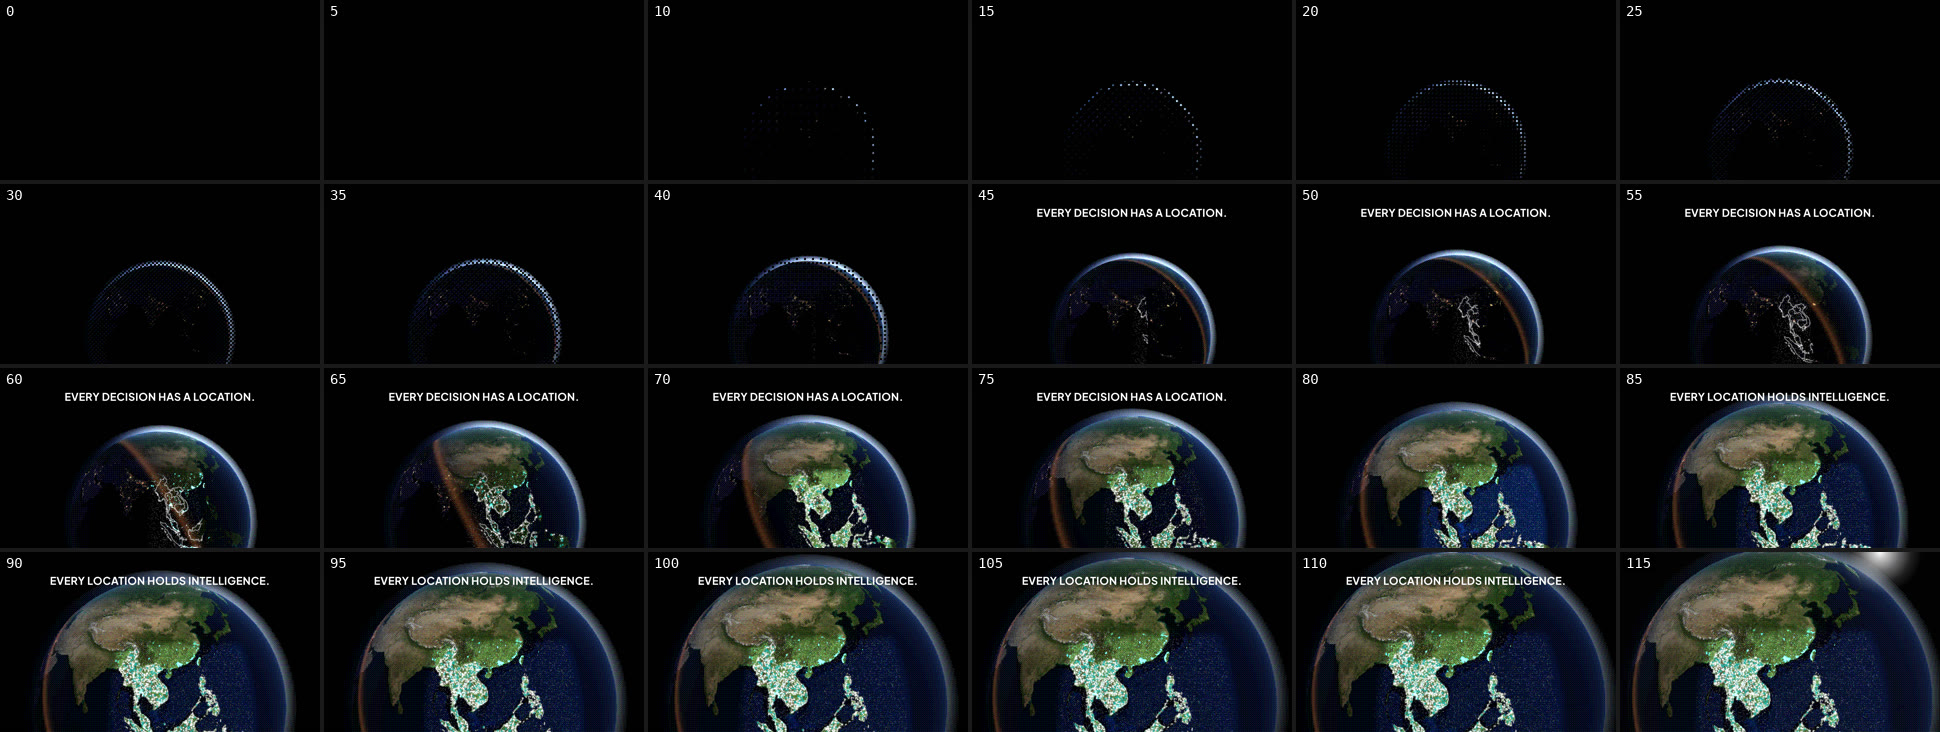
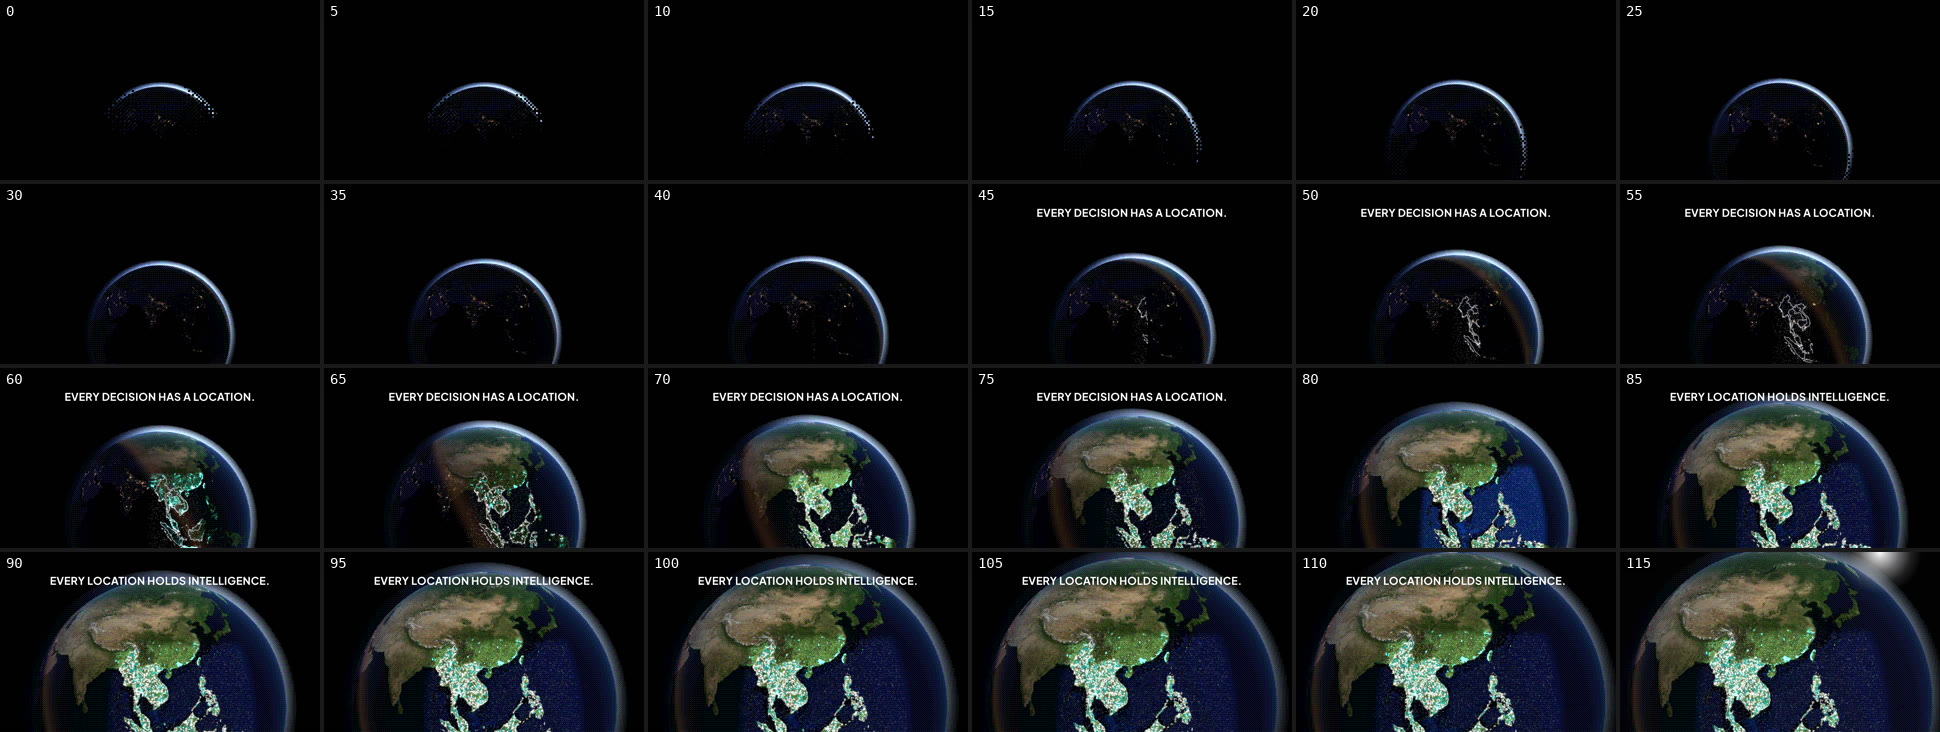
fix(galvis-film): jury round 1 — act 03
The 24.0 impact hits: one white frame then a fast drop, two shockwave rings (teal, blue), a 5 % camera
kick and a burst in brand colours (2–5 px). The name hold takes a slow 3.5 % push; the full name and
tagline are larger (40 / 28 px), boxes refitted. QA sheets for acts 01–03 and 07 refreshed.

Claude-Session: https://claude.ai/code/session_0187RN5xC2Ne3Dptw6LeZ6Ei

diff --git a/projects/galvis-launch-film/compositions/03-reveal.html b/projects/galvis-launch-film/compositions/03-reveal.html
@@ -20,8 +20,8 @@
         .act03-reveal-sub {
           position: absolute; left: 0; right: 0; text-align: center; font-family: var(--font-text); font-weight: 600; color: var(--text-body);
         }
-        #act03-reveal-full { top: 744px; font-size: 32px; }
-        #act03-reveal-tag { top: 806px; font-size: 24px; color: var(--text-body); }
+        #act03-reveal-full { top: 740px; font-size: 40px; }
+        #act03-reveal-tag { top: 812px; font-size: 28px; color: var(--text-body); }
         #act03-reveal-flash, #act03-reveal-inside { position: absolute; inset: 0; }
         #act03-reveal-flash { background: #fff; }
         #act03-reveal-inside { background: var(--navy); }
@@ -113,8 +113,12 @@
 
           // Impact on 24.0: white, then the node bursts into dots, dither cells and contour fragments that
           // fly out and gather into the mark's silhouette (the pixel swarm), which dissolves as the sharp mark lands.
+          // The white holds one frame, then drops fast so the shockwave and the burst read through it; the
+          // frame kicks in (camera shake) and settles.
           gsap.set($('flash'), { opacity: 1 });
-          tl.to($('flash'), { opacity: 0, duration: 0.4, ease: 'power2.out' }, 0);
+          tl.to($('flash'), { opacity: 0, duration: 0.25, ease: 'expo.out' }, 1 / 30);
+          gsap.set($('root'), { scale: 1.05, transformOrigin: '960px 600px' });
+          tl.to($('root'), { scale: 1, duration: 0.35, ease: 'power3.out' }, 0);
           const rnd = GV.seeded(3);
           const BRAND = ['#032750', '#024ABC', '#1FAFA1', '#86C36A'];
           const points = Array.from({ length: 720 }, (_, n) => {
@@ -126,14 +130,26 @@
               ox: 960 + Math.cos(a) * r, oy: 600 + Math.sin(a) * r * 0.62,
               x1: 840 + tx, y1: 160 + ty,
               c: `rgb(${px[i]},${px[i + 1]},${px[i + 2]})`, c2: BRAND[Math.floor(rnd() * 4)],
-              rot: rnd() * Math.PI, len: 7 + rnd() * 9, delay: rnd() * 0.25,
+              rot: rnd() * Math.PI, len: 7 + rnd() * 9, delay: rnd() * 0.25, size: 2 + rnd() * 3,
             };
           });
           const pctx = $('particles').getContext('2d');
           const OUT = 0.55, GATHER = A(14), FADE_FROM = A(14, 1), FADE_TO = A(14, 2) + 0.2;
           const expoOut = (k) => (k >= 1 ? 1 : 1 - Math.pow(2, -10 * k));
+          // Two shockwave rings from the node: teal, then blue 0.08 s later (radius 0 → 1400 px, expo out).
+          const RINGS = [[0, '31,175,161'], [0.08, '2,74,188']];
+          const drawRings = (t) => RINGS.forEach(([at, rgb]) => {
+            const k = (t - at) / 0.5;
+            if (k < 0 || k >= 1) return;
+            pctx.strokeStyle = `rgba(${rgb},${(1 - k).toFixed(3)})`;
+            pctx.lineWidth = 10 * (1 - k);
+            pctx.beginPath();
+            pctx.ellipse(960, 600, 1400 * expoOut(k), 1400 * expoOut(k) * 0.62, 0, 0, Math.PI * 2);
+            pctx.stroke();
+          });
           const drawParticles = (t) => {
             pctx.clearRect(0, 0, 1920, 1080);
+            drawRings(t);
             if (t >= FADE_TO) return;
             pctx.globalAlpha = 1 - Math.min(1, Math.max(0, (t - FADE_FROM) / (FADE_TO - FADE_FROM)));
             for (const p of points) {
@@ -144,7 +160,7 @@
                 const e = k * k * (3 - 2 * k);
                 x = p.ox + (p.x1 - p.ox) * e; y = p.oy + (p.y1 - p.oy) * e;
               }
-              if (p.kind === 0) { pctx.fillStyle = p.c2; pctx.fillRect(x - 1.5, y - 1.5, 3, 3); }
+              if (p.kind === 0) { pctx.fillStyle = p.c2; pctx.fillRect(x - p.size / 2, y - p.size / 2, p.size, p.size); }
               else if (p.kind === 1) {
                 pctx.fillStyle = p.c; pctx.fillRect(x - 3, y - 3, 3, 3); pctx.fillRect(x, y, 3, 3);
                 pctx.fillStyle = p.c2; pctx.fillRect(x, y - 3, 3, 3); pctx.fillRect(x - 3, y, 3, 3);
@@ -187,7 +203,7 @@
           gsap.set([$('gal'), $('vis')], { opacity: 0, y: 40 });
           tl.to($('gal'), step, A(15));
           tl.to($('vis'), step, A(15, 1));
-          // Blur scaled to the type size: 4 px on 24–32 px lines (10 px would hide them on the first frame).
+          // Blur scaled to the type size: 4 px on 28–40 px lines (10 px would hide them on the first frame).
           const blurIn = { opacity: 0, y: 14, filter: 'blur(4px)' };
           const sharp = { opacity: 1, y: 0, filter: 'blur(0px)', duration: 0.6, ease: 'expo.out' };
           gsap.set($('full'), blurIn);
@@ -195,6 +211,9 @@
           // The tagline under the name rises without blur (blur-to-baseline is for statements, spec §3).
           gsap.set($('tag'), { opacity: 0, y: 14 });
           tl.to($('tag'), { opacity: 1, y: 0, duration: 0.5, ease: 'expo.out' }, A(17));
+
+          // The hold under the name is never still: a slow 3.5 % push from VIS to the dive.
+          tl.to($('root'), { scale: 1.035, duration: A(17, 3) - A(15, 1), ease: 'none' }, A(15, 1));
 
           // Last beat: the camera dives into the hexagon; the frame is fully navy by the cut.
           gsap.set($('inside'), { opacity: 0 });

diff --git a/projects/galvis-launch-film/shared/gv.js b/projects/galvis-launch-film/shared/gv.js
@@ -337,8 +337,8 @@ var GV = (() => {
       { t: 27, act: "act03-reveal", what: "plates land, mark complete", box: [800, 130, 320, 330] },
       { t: 28, act: "act03-reveal", what: "GAL", box: [580, 590, 380, 115] },
       { t: 28.5, act: "act03-reveal", what: "VIS", box: [960, 590, 380, 115] },
-      { t: 30, act: "act03-reveal", what: "full name", box: [580, 746, 760, 36] },
-      { t: 32, act: "act03-reveal", what: "sub line", box: [650, 808, 620, 26] },
+      { t: 30, act: "act03-reveal", what: "full name", box: [504, 768, 900, 36] },
+      { t: 32, act: "act03-reveal", what: "sub line", box: [624, 828, 672, 36] },
       { t: 38.5, act: "act04-core", what: "module ai active", box: [840, 220, 260, 260] },
       { t: 40.5, act: "act04-core", what: "module data active", box: [1100, 360, 260, 260] },
       { t: 42.5, act: "act04-core", what: "module eo active", box: [1100, 680, 260, 260] },
